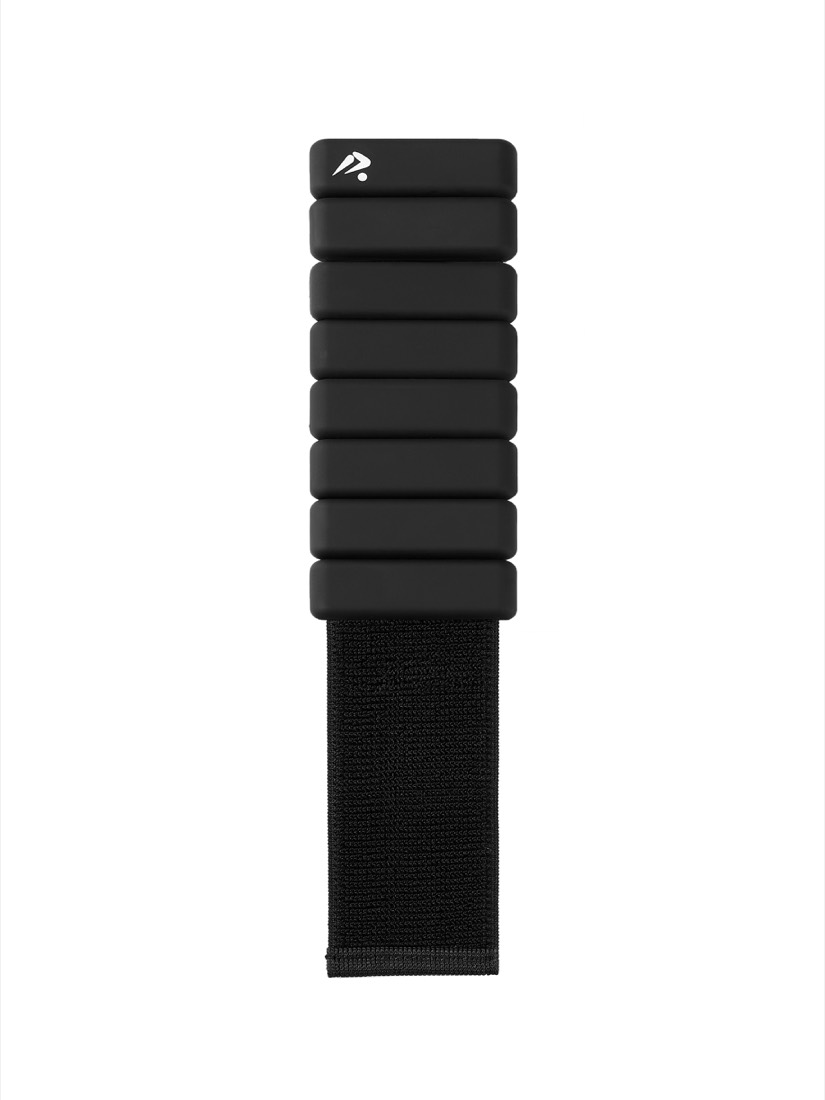
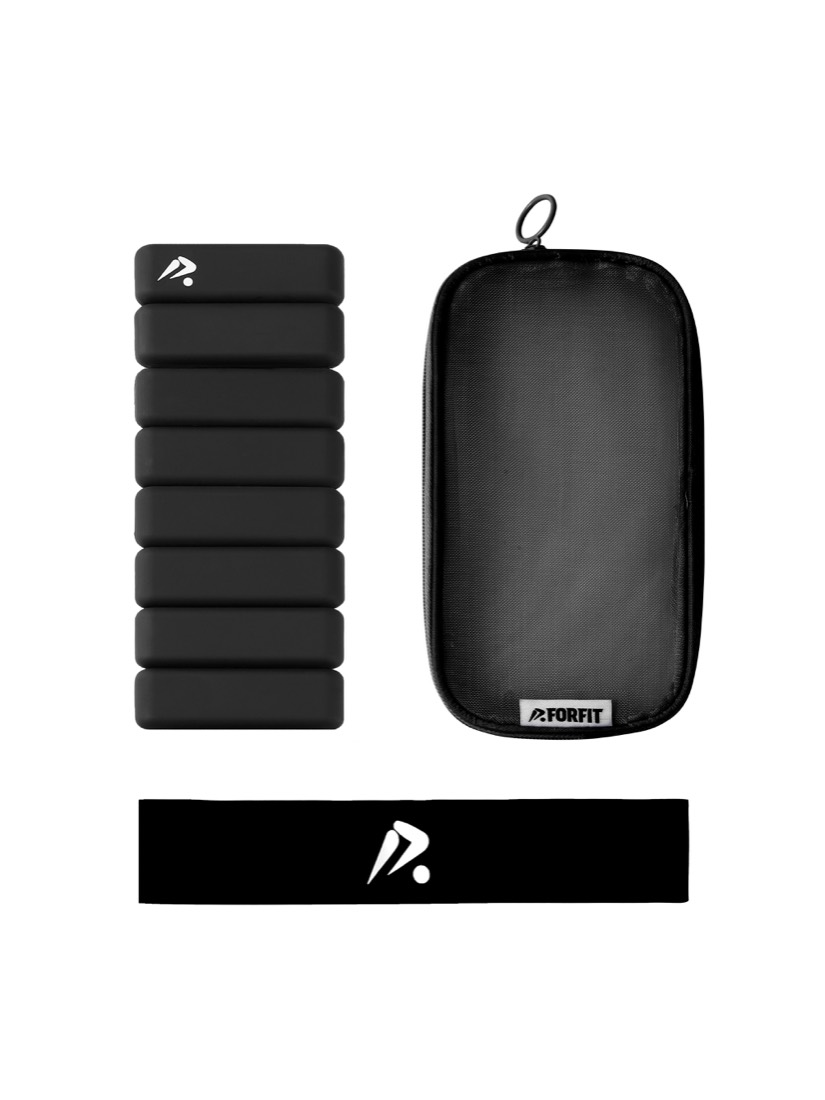
Enrich Forfit listings: model photos, video, A+ detail, catalog filtering
- Fix rectangular main image to the full kit (band + bag), not a single weight
- Galleries now include model/lifestyle shots alongside white-bg kit photos
- Add demo video (poster + lazy load) and A+ product-detail image stack,
  shared across both listings
- Replace catalog category modal-block with real client-side filtering

diff --git a/HTML Website/producto-forfit-rectangular.html b/HTML Website/producto-forfit-rectangular.html
@@ -15,7 +15,7 @@
 .gf-gal__stage img{max-width:100%;max-height:100%;width:auto;height:auto;object-fit:contain;display:block;}
 .gf-gal__zoom{position:absolute;bottom:14px;right:14px;width:34px;height:34px;border-radius:50%;background:rgba(11,24,64,.82);color:#fff;display:flex;align-items:center;justify-content:center;font-size:16px;pointer-events:none;}
 .gf-gal__badge{position:absolute;top:16px;left:16px;background:#fff;border:1px solid var(--gf-line);border-radius:999px;padding:7px 14px;font-size:12px;font-weight:800;letter-spacing:.04em;color:var(--gf-navy);box-shadow:0 6px 18px rgba(11,24,64,.08);}
-.gf-gal__thumbs{display:grid;grid-template-columns:repeat(4,1fr);gap:12px;margin-top:14px;}
+.gf-gal__thumbs{display:grid;grid-template-columns:repeat(5,1fr);gap:10px;margin-top:14px;}
 .gf-gal__thumb{background:var(--gf-soft);border:1.5px solid var(--gf-line);border-radius:13px;aspect-ratio:1/1;cursor:pointer;overflow:hidden;padding:0;transition:border-color .15s,transform .15s;}
 .gf-gal__thumb img{width:100%;height:100%;object-fit:cover;}
 .gf-gal__thumb:hover{transform:translateY(-2px);}
@@ -67,6 +67,20 @@
 .gf-kit__d{font-size:13px;color:var(--gf-muted);margin:0;line-height:1.45;}
 .gf-pdp__back{display:inline-flex;align-items:center;gap:8px;margin-top:36px;font-size:14px;font-weight:700;color:var(--gf-acc);text-decoration:none;}
 .gf-pdp__back:hover{gap:12px;}
+/* Video demo */
+.gf-video{border-top:1px solid var(--gf-line);padding:clamp(36px,5vw,56px) 0;}
+.gf-video__head{text-align:center;margin:0 0 24px;}
+.gf-video__cap{font-size:12px;font-weight:800;letter-spacing:.1em;text-transform:uppercase;color:var(--gf-acc);margin:0 0 8px;}
+.gf-video h2{font-size:clamp(20px,2.6vw,26px);font-weight:900;color:var(--gf-navy);margin:0;letter-spacing:-.01em;}
+.gf-video__frame{max-width:720px;margin:0 auto;border-radius:20px;overflow:hidden;border:1px solid var(--gf-line);box-shadow:0 18px 50px rgba(11,24,64,.12);background:#0B1840;}
+.gf-video__frame video{width:100%;height:auto;display:block;}
+/* A+ descripción */
+.gf-aplus{border-top:1px solid var(--gf-line);padding:clamp(36px,5vw,56px) 0 clamp(48px,7vw,80px);}
+.gf-aplus__head{text-align:center;margin:0 0 28px;}
+.gf-aplus__cap{font-size:12px;font-weight:800;letter-spacing:.1em;text-transform:uppercase;color:var(--gf-acc);margin:0 0 8px;}
+.gf-aplus h2{font-size:clamp(20px,2.6vw,26px);font-weight:900;color:var(--gf-navy);margin:0;letter-spacing:-.01em;}
+.gf-aplus__stack{max-width:880px;margin:0 auto;display:grid;gap:14px;}
+.gf-aplus__stack img{width:100%;border-radius:16px;display:block;border:1px solid var(--gf-line);}
 /* Visor / lightbox */
 .gf-lb{position:fixed;inset:0;z-index:9999;background:rgba(7,12,28,.92);display:none;align-items:center;justify-content:center;padding:24px;cursor:zoom-out;-webkit-backdrop-filter:blur(2px);backdrop-filter:blur(2px);}
 .gf-lb.is-open{display:flex;}
@@ -98,7 +112,8 @@
           <button class="gf-gal__thumb is-active" data-img="assets/img/Forfit/rect-black-kit.jpg" type="button"><img src="assets/img/Forfit/rect-black-kit.jpg" alt="Kit completo negro"/></button>
           <button class="gf-gal__thumb" data-img="assets/img/Forfit/rect-pink-kit.jpg" type="button"><img src="assets/img/Forfit/rect-pink-kit.jpg" alt="Kit completo rosado"/></button>
           <button class="gf-gal__thumb" data-img="assets/img/Forfit/rect-pink-single.jpg" type="button"><img src="assets/img/Forfit/rect-pink-single.jpg" alt="Pesa rectangular rosada"/></button>
-          <button class="gf-gal__thumb" data-img="assets/img/Forfit/rect-pink-life.jpg" type="button"><img src="assets/img/Forfit/rect-pink-life.jpg" alt="Pesa rectangular rosada en uso"/></button>
+          <button class="gf-gal__thumb" data-img="assets/img/Forfit/life-black-1.jpg" type="button"><img src="assets/img/Forfit/life-black-1.jpg" alt="Modelo entrenando con pesas negras"/></button>
+          <button class="gf-gal__thumb" data-img="assets/img/Forfit/life-pink-1.jpg" type="button"><img src="assets/img/Forfit/life-pink-1.jpg" alt="Modelo entrenando con pesas rosadas"/></button>
         </div>
       </div>
 
@@ -160,6 +175,40 @@
             <li class="gf-kit__item"><span class="gf-kit__ico">▢</span><div><p class="gf-kit__t" data-en="Carry bag" data-es="Bolso de transporte">Bolso de transporte</p><p class="gf-kit__d" data-en="Minimalist bag to store and carry the set." data-es="Bolso minimalista para guardar y transportar el set.">Bolso minimalista para guardar y transportar el set.</p></div></li>
           </ul>
         </div>
+      </div>
+    </div>
+  </div>
+
+  <!-- Video demostración -->
+  <div class="gf-pdp__wrap">
+    <div class="gf-video">
+      <div class="gf-video__head">
+        <p class="gf-video__cap" data-en="In action" data-es="En acción">En acción</p>
+        <h2 data-en="See the weights in motion" data-es="Mira las pesas en movimiento">Mira las pesas en movimiento</h2>
+      </div>
+      <div class="gf-video__frame">
+        <video controls preload="none" playsinline poster="assets/img/Forfit/life-black-1.jpg">
+          <source src="assets/img/Forfit/forfit-demo.mp4" type="video/mp4"/>
+        </video>
+      </div>
+    </div>
+  </div>
+
+  <!-- Descripción A+ -->
+  <div class="gf-pdp__wrap">
+    <div class="gf-aplus">
+      <div class="gf-aplus__head">
+        <p class="gf-aplus__cap" data-en="Product detail" data-es="Detalle del producto">Detalle del producto</p>
+        <h2 data-en="Everything in the kit, up close" data-es="Todo el kit, en detalle">Todo el kit, en detalle</h2>
+      </div>
+      <div class="gf-aplus__stack">
+        <img src="assets/img/Forfit/aplus-01.jpg" alt="Forfit detalle 1" loading="lazy"/>
+        <img src="assets/img/Forfit/aplus-02.jpg" alt="Forfit detalle 2" loading="lazy"/>
+        <img src="assets/img/Forfit/aplus-03.jpg" alt="Forfit detalle 3" loading="lazy"/>
+        <img src="assets/img/Forfit/aplus-04.jpg" alt="Forfit detalle 4" loading="lazy"/>
+        <img src="assets/img/Forfit/aplus-05.jpg" alt="Forfit detalle 5" loading="lazy"/>
+        <img src="assets/img/Forfit/aplus-06.jpg" alt="Forfit detalle 6" loading="lazy"/>
+        <img src="assets/img/Forfit/aplus-07.jpg" alt="Forfit detalle 7" loading="lazy"/>
       </div>
       <a class="gf-pdp__back" href="catalogo.html" data-en="← Back to catalog" data-es="← Volver al catálogo">← Volver al catálogo</a>
     </div>

diff --git a/HTML Website/producto-forfit-triangular.html b/HTML Website/producto-forfit-triangular.html
@@ -15,7 +15,7 @@
 .gf-gal__stage img{max-width:100%;max-height:100%;width:auto;height:auto;object-fit:contain;display:block;}
 .gf-gal__zoom{position:absolute;bottom:14px;right:14px;width:34px;height:34px;border-radius:50%;background:rgba(11,24,64,.82);color:#fff;display:flex;align-items:center;justify-content:center;font-size:16px;pointer-events:none;}
 .gf-gal__badge{position:absolute;top:16px;left:16px;background:#fff;border:1px solid var(--gf-line);border-radius:999px;padding:7px 14px;font-size:12px;font-weight:800;letter-spacing:.04em;color:var(--gf-navy);box-shadow:0 6px 18px rgba(11,24,64,.08);}
-.gf-gal__thumbs{display:grid;grid-template-columns:repeat(4,1fr);gap:12px;margin-top:14px;}
+.gf-gal__thumbs{display:grid;grid-template-columns:repeat(5,1fr);gap:10px;margin-top:14px;}
 .gf-gal__thumb{background:var(--gf-soft);border:1.5px solid var(--gf-line);border-radius:13px;aspect-ratio:1/1;cursor:pointer;overflow:hidden;padding:0;transition:border-color .15s,transform .15s;}
 .gf-gal__thumb img{width:100%;height:100%;object-fit:cover;}
 .gf-gal__thumb:hover{transform:translateY(-2px);}
@@ -67,6 +67,20 @@
 .gf-kit__d{font-size:13px;color:var(--gf-muted);margin:0;line-height:1.45;}
 .gf-pdp__back{display:inline-flex;align-items:center;gap:8px;margin-top:36px;font-size:14px;font-weight:700;color:var(--gf-acc);text-decoration:none;}
 .gf-pdp__back:hover{gap:12px;}
+/* Video demo */
+.gf-video{border-top:1px solid var(--gf-line);padding:clamp(36px,5vw,56px) 0;}
+.gf-video__head{text-align:center;margin:0 0 24px;}
+.gf-video__cap{font-size:12px;font-weight:800;letter-spacing:.1em;text-transform:uppercase;color:var(--gf-acc);margin:0 0 8px;}
+.gf-video h2{font-size:clamp(20px,2.6vw,26px);font-weight:900;color:var(--gf-navy);margin:0;letter-spacing:-.01em;}
+.gf-video__frame{max-width:720px;margin:0 auto;border-radius:20px;overflow:hidden;border:1px solid var(--gf-line);box-shadow:0 18px 50px rgba(11,24,64,.12);background:#0B1840;}
+.gf-video__frame video{width:100%;height:auto;display:block;}
+/* A+ descripción */
+.gf-aplus{border-top:1px solid var(--gf-line);padding:clamp(36px,5vw,56px) 0 clamp(48px,7vw,80px);}
+.gf-aplus__head{text-align:center;margin:0 0 28px;}
+.gf-aplus__cap{font-size:12px;font-weight:800;letter-spacing:.1em;text-transform:uppercase;color:var(--gf-acc);margin:0 0 8px;}
+.gf-aplus h2{font-size:clamp(20px,2.6vw,26px);font-weight:900;color:var(--gf-navy);margin:0;letter-spacing:-.01em;}
+.gf-aplus__stack{max-width:880px;margin:0 auto;display:grid;gap:14px;}
+.gf-aplus__stack img{width:100%;border-radius:16px;display:block;border:1px solid var(--gf-line);}
 /* Visor / lightbox */
 .gf-lb{position:fixed;inset:0;z-index:9999;background:rgba(7,12,28,.92);display:none;align-items:center;justify-content:center;padding:24px;cursor:zoom-out;-webkit-backdrop-filter:blur(2px);backdrop-filter:blur(2px);}
 .gf-lb.is-open{display:flex;}
@@ -98,7 +112,8 @@
           <button class="gf-gal__thumb is-active" data-img="assets/img/Forfit/tri-black-kit.jpg" type="button"><img src="assets/img/Forfit/tri-black-kit.jpg" alt="Kit completo negro"/></button>
           <button class="gf-gal__thumb" data-img="assets/img/Forfit/tri-pink-kit.jpg" type="button"><img src="assets/img/Forfit/tri-pink-kit.jpg" alt="Kit completo rosado"/></button>
           <button class="gf-gal__thumb" data-img="assets/img/Forfit/tri-black-single.jpg" type="button"><img src="assets/img/Forfit/tri-black-single.jpg" alt="Pesa triangular negra"/></button>
-          <button class="gf-gal__thumb" data-img="assets/img/Forfit/tri-pink-life.jpg" type="button"><img src="assets/img/Forfit/tri-pink-life.jpg" alt="Pesa triangular rosada en uso"/></button>
+          <button class="gf-gal__thumb" data-img="assets/img/Forfit/life-black-1.jpg" type="button"><img src="assets/img/Forfit/life-black-1.jpg" alt="Modelo entrenando con pesas negras"/></button>
+          <button class="gf-gal__thumb" data-img="assets/img/Forfit/life-pink-1.jpg" type="button"><img src="assets/img/Forfit/life-pink-1.jpg" alt="Modelo entrenando con pesas rosadas"/></button>
         </div>
       </div>
 
@@ -160,6 +175,40 @@
             <li class="gf-kit__item"><span class="gf-kit__ico">▢</span><div><p class="gf-kit__t" data-en="Carry bag" data-es="Bolso de transporte">Bolso de transporte</p><p class="gf-kit__d" data-en="Minimalist bag to store and carry the set." data-es="Bolso minimalista para guardar y transportar el set.">Bolso minimalista para guardar y transportar el set.</p></div></li>
           </ul>
         </div>
+      </div>
+    </div>
+  </div>
+
+  <!-- Video demostración -->
+  <div class="gf-pdp__wrap">
+    <div class="gf-video">
+      <div class="gf-video__head">
+        <p class="gf-video__cap" data-en="In action" data-es="En acción">En acción</p>
+        <h2 data-en="See the weights in motion" data-es="Mira las pesas en movimiento">Mira las pesas en movimiento</h2>
+      </div>
+      <div class="gf-video__frame">
+        <video controls preload="none" playsinline poster="assets/img/Forfit/life-black-1.jpg">
+          <source src="assets/img/Forfit/forfit-demo.mp4" type="video/mp4"/>
+        </video>
+      </div>
+    </div>
+  </div>
+
+  <!-- Descripción A+ -->
+  <div class="gf-pdp__wrap">
+    <div class="gf-aplus">
+      <div class="gf-aplus__head">
+        <p class="gf-aplus__cap" data-en="Product detail" data-es="Detalle del producto">Detalle del producto</p>
+        <h2 data-en="Everything in the kit, up close" data-es="Todo el kit, en detalle">Todo el kit, en detalle</h2>
+      </div>
+      <div class="gf-aplus__stack">
+        <img src="assets/img/Forfit/aplus-01.jpg" alt="Forfit detalle 1" loading="lazy"/>
+        <img src="assets/img/Forfit/aplus-02.jpg" alt="Forfit detalle 2" loading="lazy"/>
+        <img src="assets/img/Forfit/aplus-03.jpg" alt="Forfit detalle 3" loading="lazy"/>
+        <img src="assets/img/Forfit/aplus-04.jpg" alt="Forfit detalle 4" loading="lazy"/>
+        <img src="assets/img/Forfit/aplus-05.jpg" alt="Forfit detalle 5" loading="lazy"/>
+        <img src="assets/img/Forfit/aplus-06.jpg" alt="Forfit detalle 6" loading="lazy"/>
+        <img src="assets/img/Forfit/aplus-07.jpg" alt="Forfit detalle 7" loading="lazy"/>
       </div>
       <a class="gf-pdp__back" href="catalogo.html" data-en="← Back to catalog" data-es="← Volver al catálogo">← Volver al catálogo</a>
     </div>

diff --git a/HTML Website/catalogo.html b/HTML Website/catalogo.html
@@ -1,5 +1,6 @@
 <!DOCTYPE html>
-<html lang="es"><head><meta charset="utf-8"/><meta content="width=device-width, initial-scale=1" name="viewport"/><title data-en="Catalog | Grupo Fitcore" data-es="Catálogo | Grupo Fitcore">Catálogo | Grupo Fitcore</title><link href="assets/style.css" rel="stylesheet"/></head><body><main class="site"><header class="header"><a href="index.html"><img alt="Grupo Fitcore" class="brand-logo" src="assets/img/logo-principal.png"/></a><nav class="nav"><a class="" data-en="Home" data-es="Inicio" href="index.html">Inicio</a><a class="" data-en="About" data-es="Nosotros" href="nosotros.html">Nosotros</a><a class="active" data-en="Catalog" data-es="Cat&amp;aacute;logo" href="catalogo.html">Catálogo</a><a class="" data-en="Services" data-es="Servicios" href="servicios.html">Servicios</a><a class="" data-en="Brands" data-es="Marcas" href="marcas.html">Marcas</a><a class="" data-en="Contact" data-es="Contacto" href="contacto.html">Contacto</a><button id="lang-toggle" onclick="toggleLang()" type="button">EN</button></nav><a class="cta" data-en="Request Catalog" data-es="Solicitar cat&amp;aacute;logo" href="contacto.html">Solicitar catálogo</a></header><section class="hero page-hero catalog-hero"><div class="hero-content"><h1 data-en="Catalog" data-es="Cat&amp;aacute;logo">Catálogo</h1><p data-en="Explore our wide product offering&lt;br/&gt;for wellness and performance." data-es="Explora nuestra amplia oferta de productos&lt;br/&gt;para tu bienestar y rendimiento." style="font-size:22px">Explora nuestra amplia oferta de productos<br/>para tu bienestar y rendimiento.</p></div><div class="hero-content products-hero catalog-products-real"><img alt="Productos Grupo Fitcore" class="catalog-hero-products-img" src="assets/img/home-products.png"/></div></section><section class="catalog-layout"><aside class="sidebar"><h3 data-en="Categories" data-es="Categor&amp;iacute;as">Categorías</h3><a class="active catalog-trigger" data-en="All Products" data-es="Todos los productos">Todos los productos</a><a class="catalog-trigger" data-en="Proteins" data-es="Prote&amp;iacute;nas">Proteínas</a><a class="catalog-trigger" data-en="Amino Acids" data-es="Amino&amp;aacute;cidos">Aminoácidos</a><a class="catalog-trigger" data-en="Pre-workouts" data-es="Pre-entrenos">Pre-entrenos</a><a class="catalog-trigger" data-en="Vitamins" data-es="Vitaminas">Vitaminas</a><a class="catalog-trigger" data-en="Health &amp; Wellness" data-es="Salud y Bienestar">Salud y Bienestar</a><a class="catalog-trigger" data-en="Accessories" data-es="Accesorios">Accesorios</a></aside><div><div class="tools"><div class="search" data-en="⌕ Search product..." data-es="&amp;telrec; Buscar producto...">⌕ Buscar producto...</div><button class="tool-btn" data-en="Filter⌄" data-es="Filtrar⌄">Filtrar⌄</button><button class="tool-btn" data-en="Sort⌄" data-es="Ordenar⌄">Ordenar⌄</button></div><div class="catalog-access-box"><h2 data-en="Exclusive catalog for B2B customers" data-es="Cat&amp;aacute;logo exclusivo para clientes B2B">Catálogo exclusivo para clientes B2B</h2><p data-en="Prices, availability, and payment terms are available only to registered customers. Opening an account is free and carries no commitment. Message us on WhatsApp or fill out the contact form, and an advisor will confirm your access in less than 24 hours." data-es="Precios, disponibilidad y condiciones de pago est&amp;aacute;n disponibles solo para clientes registrados. Abrir una cuenta es gratuito y sin compromiso. Escr&amp;iacute;benos por WhatsApp o llena el formulario de contacto y un asesor te confirma el acceso en menos de 24 horas.">Precios, disponibilidad y condiciones de pago están disponibles solo para clientes registrados. Abrir una cuenta es gratuito y sin compromiso. Escríbenos por WhatsApp o llena el formulario de contacto y un asesor te confirma el acceso en menos de 24 horas.</p><a class="cta" data-en="Request Catalog Access" data-es="Solicitar acceso al cat&amp;aacute;logo" href="contacto.html">Solicitar acceso al catálogo</a></div><div class="products-grid"><a class="product-card" href="producto-creatina.html"><div class="pack"><img alt="Platinum 100% Creatine" class="product-img" src="assets/img/product-creatine.png"/></div><h4>Platinum 100% Creatine</h4><p data-en="MuscleTech · Creatine" data-es="MuscleTech · Creatina">MuscleTech · Creatina</p></a><a class="product-card" href="producto-forfit-triangular.html"><div class="pack"><img alt="Forfit pesas triangulares" class="product-img" src="assets/img/Forfit/tri-black-kit.jpg"/></div><h4 data-en="Triangular Weights" data-es="Pesas Triangulares">Pesas Triangulares</h4><p data-en="Forfit · Accessories" data-es="Forfit · Accesorios">Forfit · Accesorios</p></a><a class="product-card" href="producto-forfit-rectangular.html"><div class="pack"><img alt="Forfit pesas rectangulares" class="product-img" src="assets/img/Forfit/rect-black-kit.jpg"/></div><h4 data-en="Rectangular Weights" data-es="Pesas Rectangulares">Pesas Rectangulares</h4><p data-en="Forfit · Accessories" data-es="Forfit · Accesorios">Forfit · Accesorios</p></a><article class="product-card catalog-trigger"><div class="pack"><img alt="Whey Protein" class="product-img" src="assets/img/product-whey.png"/></div><h4>Whey Protein</h4><p data-en="Proteins" data-es="Prote&amp;iacute;nas">Proteínas</p></article><article class="product-card catalog-trigger"><div class="pack"><img alt="Pre Workout" class="product-img" src="assets/img/product-preworkout.png"/></div><h4>Pre-Workout</h4><p>Energy &amp; Focus</p></article><article class="product-card catalog-trigger"><div class="pack"><img alt="Omega 3" class="product-img" src="assets/img/product-omega.png"/></div><h4>Omega 3</h4><p>Premium Fish Oil</p></article></div><div class="pagination"><span data-en="Showing 1–4 of 24 products" data-es="Mostrando 1&amp;ndash;4 de 24 productos">Mostrando 1–4 de 24 productos</span><div class="pages"><span>‹</span><span class="current">1</span><span>2</span><span>3</span><span>...</span><span>6</span><span>›</span></div></div></div></section><section class="marquee-wrapper"><h3 class="marquee-title" data-en="BRANDS WE DISTRIBUTE" data-es="MARCAS QUE DISTRIBUIMOS">MARCAS QUE DISTRIBUIMOS</h3><div class="marquee-track"><img alt="Optimum Nutrition" src="assets/img/optimum-nutrition.png"/><img alt="Dymatize" src="assets/img/dymatize.png"/><img alt="MuscleTech" src="assets/img/muscletech.png"/><img alt="C4 Energy" src="assets/img/c4-energy.png"/><img alt="Bucked Up" src="assets/img/bucked-up.webp"/><img alt="Redcon1" src="assets/img/redcon1.png"/><img alt="Sascha Fitness" src="assets/img/sascha.webp"/><img alt="Optimum Nutrition" src="assets/img/optimum-nutrition.png"/><img alt="Dymatize" src="assets/img/dymatize.png"/><img alt="MuscleTech" src="assets/img/muscletech.png"/><img alt="C4 Energy" src="assets/img/c4-energy.png"/><img alt="Bucked Up" src="assets/img/bucked-up.webp"/><img alt="Redcon1" src="assets/img/redcon1.png"/><img alt="Sascha Fitness" src="assets/img/sascha.webp"/></div></section><footer class="footer"><div class="footer-grid"><div><img alt="Grupo Fitcore" class="footer-logo" src="assets/img/logo-negativo.png"/><p data-en="Committed to your success, delivering quality, innovation, and results." data-es="Comprometidos con tu &amp;eacute;xito, entregando calidad, innovaci&amp;oacute;n y resultados.">Comprometidos con tu éxito, entregando calidad, innovación y resultados.</p></div><div><h4 data-en="Links" data-es="Enlaces">Enlaces</h4><a data-en="Home" data-es="Inicio" href="index.html">Inicio</a><a data-en="About" data-es="Nosotros" href="nosotros.html">Nosotros</a><a data-en="Catalog" data-es="Cat&amp;aacute;logo" href="catalogo.html">Catálogo</a><a data-en="Services" data-es="Servicios" href="servicios.html">Servicios</a><a data-en="Brands" data-es="Marcas" href="marcas.html">Marcas</a><a data-en="Contact" data-es="Contacto" href="contacto.html">Contacto</a></div><div><h4 data-en="Categories" data-es="Categor&amp;iacute;as">Categorías</h4><a data-en="Proteins" data-es="Prote&amp;iacute;nas">Proteínas</a><a data-en="Amino Acids" data-es="Amino&amp;aacute;cidos">Aminoácidos</a><a data-en="Pre-workouts" data-es="Pre-entrenos">Pre-entrenos</a><a data-en="Vitamins" data-es="Vitaminas">Vitaminas</a><a data-en="Health &amp; Wellness" data-es="Salud y Bienestar">Salud y Bienestar</a><a data-en="Accessories" data-es="Accesorios">Accesorios</a></div><div><h4 data-en="Contact Us" data-es="Cont&amp;aacute;ctanos">Contáctanos</h4><a>[phone redacted]</a><a>[email redacted]</a><a>grupofitcore.com</a><div class="socials"><span>f</span><span>◎</span><span>in</span></div></div></div><div class="copyright" data-en="© 2026 Grupo Fitcore. All rights reserved." data-es="&amp;copy; 2026 Grupo Fitcore. Todos los derechos reservados.">© 2026 Grupo Fitcore. Todos los derechos reservados.</div></footer></main><div aria-hidden="true" class="catalog-modal" id="catalogModal"><div class="catalog-modal__box"><button aria-label="Cerrar" class="catalog-modal__close" type="button">×</button><h2 data-en="Exclusive customer content" data-es="Contenido exclusivo para clientes">Contenido exclusivo para clientes</h2><p data-en="Prices and the full catalog are available for registered businesses. Request free access and an advisor will contact you in less than 24 hours." data-es="Los precios y el cat&amp;aacute;logo completo est&amp;aacute;n disponibles para negocios registrados. Solicita acceso gratuito y un asesor te contacta en menos de 24 horas.">Los precios y el catálogo completo están disponibles para negocios registrados. Solicita acceso gratuito y un asesor te contacta en menos de 24 horas.</p><a class="cta catalog-modal__cta" data-en="Request Catalog" data-es="Solicitar cat&amp;aacute;logo" href="contacto.html">Solicitar catálogo</a><p class="catalog-modal__whatsapp" data-en="Or message us directly on WhatsApp [phone redacted]" data-es="O escr&amp;iacute;benos directo al WhatsApp [phone redacted]">O escríbenos directo al WhatsApp [phone redacted]</p></div></div><script>document.addEventListener('DOMContentLoaded',function(){const modal=document.getElementById('catalogModal');const open=()=>{modal.classList.add('is-open');modal.setAttribute('aria-hidden','false')};const close=()=>{modal.classList.remove('is-open');modal.setAttribute('aria-hidden','true')};document.querySelectorAll('.catalog-trigger').forEach(el=>{el.addEventListener('click',function(e){e.preventDefault();open();});});document.querySelectorAll('.catalog-modal__close,.catalog-modal').forEach(el=>{el.addEventListener('click',function(e){if(e.target===el)close();});});document.addEventListener('keydown',function(e){if(e.key==='Escape')close();});});</script><script>
+<html lang="es"><head><meta charset="utf-8"/><meta content="width=device-width, initial-scale=1" name="viewport"/><title data-en="Catalog | Grupo Fitcore" data-es="Catálogo | Grupo Fitcore">Catálogo | Grupo Fitcore</title><link href="assets/style.css" rel="stylesheet"/></head><body><main class="site"><header class="header"><a href="index.html"><img alt="Grupo Fitcore" class="brand-logo" src="assets/img/logo-principal.png"/></a><nav class="nav"><a class="" data-en="Home" data-es="Inicio" href="index.html">Inicio</a><a class="" data-en="About" data-es="Nosotros" href="nosotros.html">Nosotros</a><a class="active" data-en="Catalog" data-es="Cat&amp;aacute;logo" href="catalogo.html">Catálogo</a><a class="" data-en="Services" data-es="Servicios" href="servicios.html">Servicios</a><a class="" data-en="Brands" data-es="Marcas" href="marcas.html">Marcas</a><a class="" data-en="Contact" data-es="Contacto" href="contacto.html">Contacto</a><button id="lang-toggle" onclick="toggleLang()" type="button">EN</button></nav><a class="cta" data-en="Request Catalog" data-es="Solicitar cat&amp;aacute;logo" href="contacto.html">Solicitar catálogo</a></header><section class="hero page-hero catalog-hero"><div class="hero-content"><h1 data-en="Catalog" data-es="Cat&amp;aacute;logo">Catálogo</h1><p data-en="Explore our wide product offering&lt;br/&gt;for wellness and performance." data-es="Explora nuestra amplia oferta de productos&lt;br/&gt;para tu bienestar y rendimiento." style="font-size:22px">Explora nuestra amplia oferta de productos<br/>para tu bienestar y rendimiento.</p></div><div class="hero-content products-hero catalog-products-real"><img alt="Productos Grupo Fitcore" class="catalog-hero-products-img" src="assets/img/home-products.png"/></div></section><section class="catalog-layout"><aside class="sidebar"><h3 data-en="Categories" data-es="Categor&amp;iacute;as">Categorías</h3><a class="active cat-filter" data-cat="all" data-en="All Products" data-es="Todos los productos">Todos los productos</a><a class="cat-filter" data-cat="proteinas" data-en="Proteins" data-es="Prote&amp;iacute;nas">Proteínas</a><a class="cat-filter" data-cat="aminoacidos" data-en="Amino Acids" data-es="Amino&amp;aacute;cidos">Aminoácidos</a><a class="cat-filter" data-cat="pre-entrenos" data-en="Pre-workouts" data-es="Pre-entrenos">Pre-entrenos</a><a class="cat-filter" data-cat="vitaminas" data-en="Vitamins" data-es="Vitaminas">Vitaminas</a><a class="cat-filter" data-cat="salud" data-en="Health &amp; Wellness" data-es="Salud y Bienestar">Salud y Bienestar</a><a class="cat-filter" data-cat="accesorios" data-en="Accessories" data-es="Accesorios">Accesorios</a></aside><div><div class="tools"><div class="search" data-en="⌕ Search product..." data-es="&amp;telrec; Buscar producto...">⌕ Buscar producto...</div><button class="tool-btn" data-en="Filter⌄" data-es="Filtrar⌄">Filtrar⌄</button><button class="tool-btn" data-en="Sort⌄" data-es="Ordenar⌄">Ordenar⌄</button></div><div class="catalog-access-box"><h2 data-en="Exclusive catalog for B2B customers" data-es="Cat&amp;aacute;logo exclusivo para clientes B2B">Catálogo exclusivo para clientes B2B</h2><p data-en="Prices, availability, and payment terms are available only to registered customers. Opening an account is free and carries no commitment. Message us on WhatsApp or fill out the contact form, and an advisor will confirm your access in less than 24 hours." data-es="Precios, disponibilidad y condiciones de pago est&amp;aacute;n disponibles solo para clientes registrados. Abrir una cuenta es gratuito y sin compromiso. Escr&amp;iacute;benos por WhatsApp o llena el formulario de contacto y un asesor te confirma el acceso en menos de 24 horas.">Precios, disponibilidad y condiciones de pago están disponibles solo para clientes registrados. Abrir una cuenta es gratuito y sin compromiso. Escríbenos por WhatsApp o llena el formulario de contacto y un asesor te confirma el acceso en menos de 24 horas.</p><a class="cta" data-en="Request Catalog Access" data-es="Solicitar acceso al cat&amp;aacute;logo" href="contacto.html">Solicitar acceso al catálogo</a></div><div class="products-grid"><a class="product-card" data-cat="proteinas" href="producto-creatina.html"><div class="pack"><img alt="Platinum 100% Creatine" class="product-img" src="assets/img/product-creatine.png"/></div><h4>Platinum 100% Creatine</h4><p data-en="MuscleTech · Creatine" data-es="MuscleTech · Creatina">MuscleTech · Creatina</p></a><a class="product-card" data-cat="accesorios" href="producto-forfit-triangular.html"><div class="pack"><img alt="Forfit pesas triangulares" class="product-img" src="assets/img/Forfit/tri-black-kit.jpg"/></div><h4 data-en="Triangular Weights" data-es="Pesas Triangulares">Pesas Triangulares</h4><p data-en="Forfit · Accessories" data-es="Forfit · Accesorios">Forfit · Accesorios</p></a><a class="product-card" data-cat="accesorios" href="producto-forfit-rectangular.html"><div class="pack"><img alt="Forfit pesas rectangulares" class="product-img" src="assets/img/Forfit/rect-black-kit.jpg"/></div><h4 data-en="Rectangular Weights" data-es="Pesas Rectangulares">Pesas Rectangulares</h4><p data-en="Forfit · Accessories" data-es="Forfit · Accesorios">Forfit · Accesorios</p></a><article class="product-card catalog-trigger" data-cat="proteinas"><div class="pack"><img alt="Whey Protein" class="product-img" src="assets/img/product-whey.png"/></div><h4>Whey Protein</h4><p data-en="Proteins" data-es="Prote&amp;iacute;nas">Proteínas</p></article><article class="product-card catalog-trigger" data-cat="pre-entrenos"><div class="pack"><img alt="Pre Workout" class="product-img" src="assets/img/product-preworkout.png"/></div><h4>Pre-Workout</h4><p>Energy &amp; Focus</p></article><article class="product-card catalog-trigger" data-cat="salud"><div class="pack"><img alt="Omega 3" class="product-img" src="assets/img/product-omega.png"/></div><h4>Omega 3</h4><p>Premium Fish Oil</p></article></div><div class="pagination"><span data-en="Showing 1–4 of 24 products" data-es="Mostrando 1&amp;ndash;4 de 24 productos">Mostrando 1–4 de 24 productos</span><div class="pages"><span>‹</span><span class="current">1</span><span>2</span><span>3</span><span>...</span><span>6</span><span>›</span></div></div></div></section><section class="marquee-wrapper"><h3 class="marquee-title" data-en="BRANDS WE DISTRIBUTE" data-es="MARCAS QUE DISTRIBUIMOS">MARCAS QUE DISTRIBUIMOS</h3><div class="marquee-track"><img alt="Optimum Nutrition" src="assets/img/optimum-nutrition.png"/><img alt="Dymatize" src="assets/img/dymatize.png"/><img alt="MuscleTech" src="assets/img/muscletech.png"/><img alt="C4 Energy" src="assets/img/c4-energy.png"/><img alt="Bucked Up" src="assets/img/bucked-up.webp"/><img alt="Redcon1" src="assets/img/redcon1.png"/><img alt="Sascha Fitness" src="assets/img/sascha.webp"/><img alt="Optimum Nutrition" src="assets/img/optimum-nutrition.png"/><img alt="Dymatize" src="assets/img/dymatize.png"/><img alt="MuscleTech" src="assets/img/muscletech.png"/><img alt="C4 Energy" src="assets/img/c4-energy.png"/><img alt="Bucked Up" src="assets/img/bucked-up.webp"/><img alt="Redcon1" src="assets/img/redcon1.png"/><img alt="Sascha Fitness" src="assets/img/sascha.webp"/></div></section><footer class="footer"><div class="footer-grid"><div><img alt="Grupo Fitcore" class="footer-logo" src="assets/img/logo-negativo.png"/><p data-en="Committed to your success, delivering quality, innovation, and results." data-es="Comprometidos con tu &amp;eacute;xito, entregando calidad, innovaci&amp;oacute;n y resultados.">Comprometidos con tu éxito, entregando calidad, innovación y resultados.</p></div><div><h4 data-en="Links" data-es="Enlaces">Enlaces</h4><a data-en="Home" data-es="Inicio" href="index.html">Inicio</a><a data-en="About" data-es="Nosotros" href="nosotros.html">Nosotros</a><a data-en="Catalog" data-es="Cat&amp;aacute;logo" href="catalogo.html">Catálogo</a><a data-en="Services" data-es="Servicios" href="servicios.html">Servicios</a><a data-en="Brands" data-es="Marcas" href="marcas.html">Marcas</a><a data-en="Contact" data-es="Contacto" href="contacto.html">Contacto</a></div><div><h4 data-en="Categories" data-es="Categor&amp;iacute;as">Categorías</h4><a data-en="Proteins" data-es="Prote&amp;iacute;nas">Proteínas</a><a data-en="Amino Acids" data-es="Amino&amp;aacute;cidos">Aminoácidos</a><a data-en="Pre-workouts" data-es="Pre-entrenos">Pre-entrenos</a><a data-en="Vitamins" data-es="Vitaminas">Vitaminas</a><a data-en="Health &amp; Wellness" data-es="Salud y Bienestar">Salud y Bienestar</a><a data-en="Accessories" data-es="Accesorios">Accesorios</a></div><div><h4 data-en="Contact Us" data-es="Cont&amp;aacute;ctanos">Contáctanos</h4><a>[phone redacted]</a><a>[email redacted]</a><a>grupofitcore.com</a><div class="socials"><span>f</span><span>◎</span><span>in</span></div></div></div><div class="copyright" data-en="© 2026 Grupo Fitcore. All rights reserved." data-es="&amp;copy; 2026 Grupo Fitcore. Todos los derechos reservados.">© 2026 Grupo Fitcore. Todos los derechos reservados.</div></footer></main><div aria-hidden="true" class="catalog-modal" id="catalogModal"><div class="catalog-modal__box"><button aria-label="Cerrar" class="catalog-modal__close" type="button">×</button><h2 data-en="Exclusive customer content" data-es="Contenido exclusivo para clientes">Contenido exclusivo para clientes</h2><p data-en="Prices and the full catalog are available for registered businesses. Request free access and an advisor will contact you in less than 24 hours." data-es="Los precios y el cat&amp;aacute;logo completo est&amp;aacute;n disponibles para negocios registrados. Solicita acceso gratuito y un asesor te contacta en menos de 24 horas.">Los precios y el catálogo completo están disponibles para negocios registrados. Solicita acceso gratuito y un asesor te contacta en menos de 24 horas.</p><a class="cta catalog-modal__cta" data-en="Request Catalog" data-es="Solicitar cat&amp;aacute;logo" href="contacto.html">Solicitar catálogo</a><p class="catalog-modal__whatsapp" data-en="Or message us directly on WhatsApp [phone redacted]" data-es="O escr&amp;iacute;benos directo al WhatsApp [phone redacted]">O escríbenos directo al WhatsApp [phone redacted]</p></div></div><script>document.addEventListener('DOMContentLoaded',function(){const modal=document.getElementById('catalogModal');const open=()=>{modal.classList.add('is-open');modal.setAttribute('aria-hidden','false')};const close=()=>{modal.classList.remove('is-open');modal.setAttribute('aria-hidden','true')};document.querySelectorAll('.catalog-trigger').forEach(el=>{el.addEventListener('click',function(e){e.preventDefault();open();});});document.querySelectorAll('.catalog-modal__close,.catalog-modal').forEach(el=>{el.addEventListener('click',function(e){if(e.target===el)close();});});document.addEventListener('keydown',function(e){if(e.key==='Escape')close();});
+var filters=document.querySelectorAll('.cat-filter');var cards=document.querySelectorAll('.products-grid .product-card');filters.forEach(function(f){f.addEventListener('click',function(e){e.preventDefault();var cat=f.getAttribute('data-cat');filters.forEach(function(x){x.classList.remove('active');});f.classList.add('active');cards.forEach(function(c){var show=(cat==='all'||c.getAttribute('data-cat')===cat);c.style.display=show?'':'none';});});});});</script><script>
 (function () {
   function formatCounterValue(value, locale, prefix, suffix) {
     return (prefix || "") + Math.floor(value).toLocaleString(locale || "es-VE") + (suffix || "");